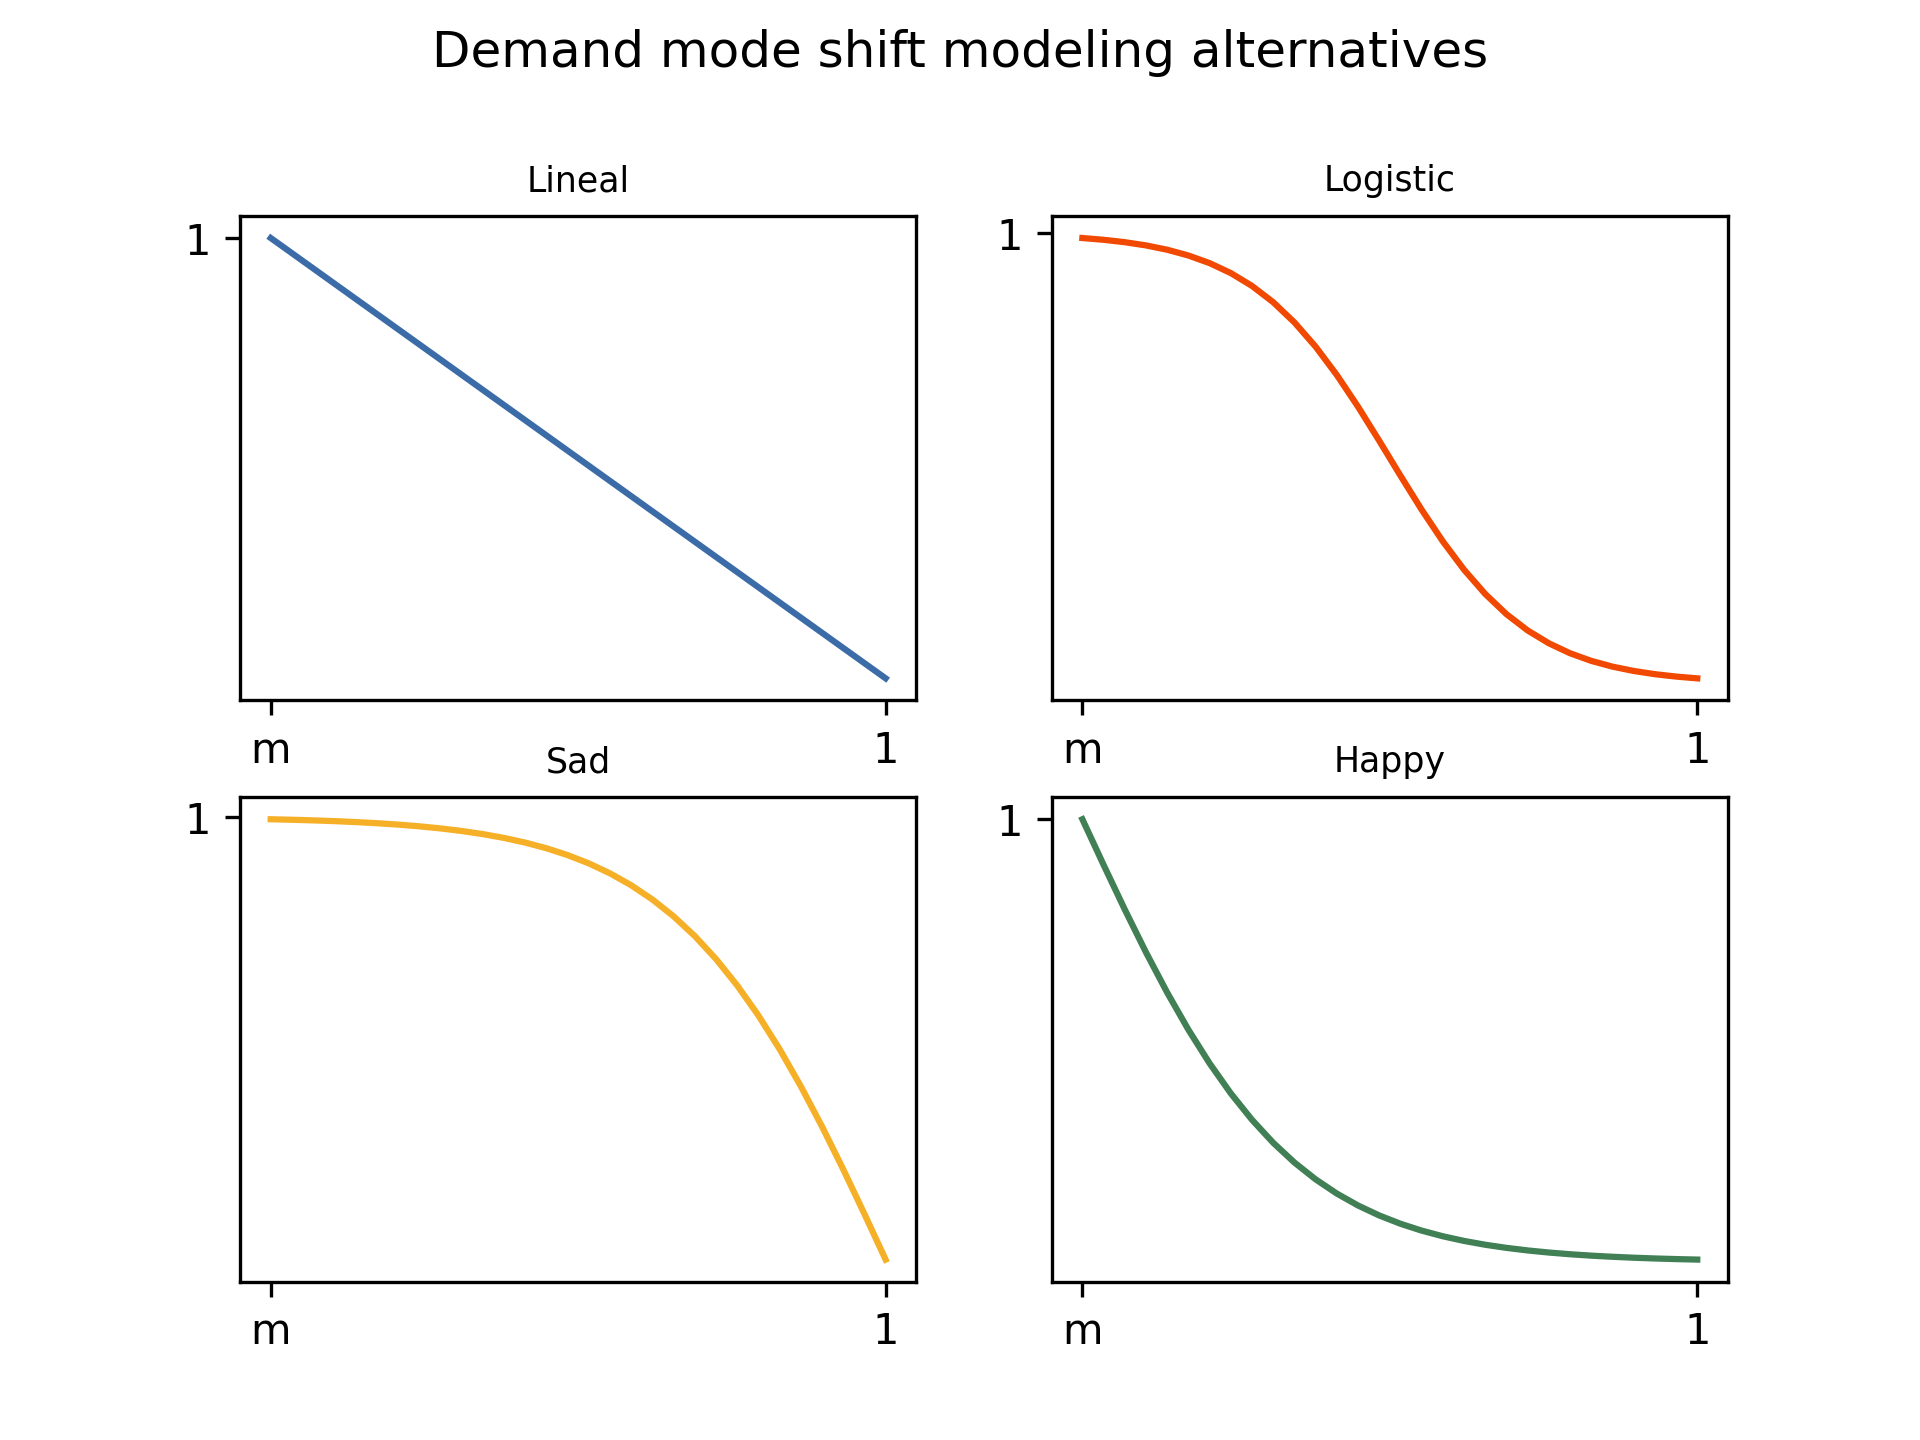
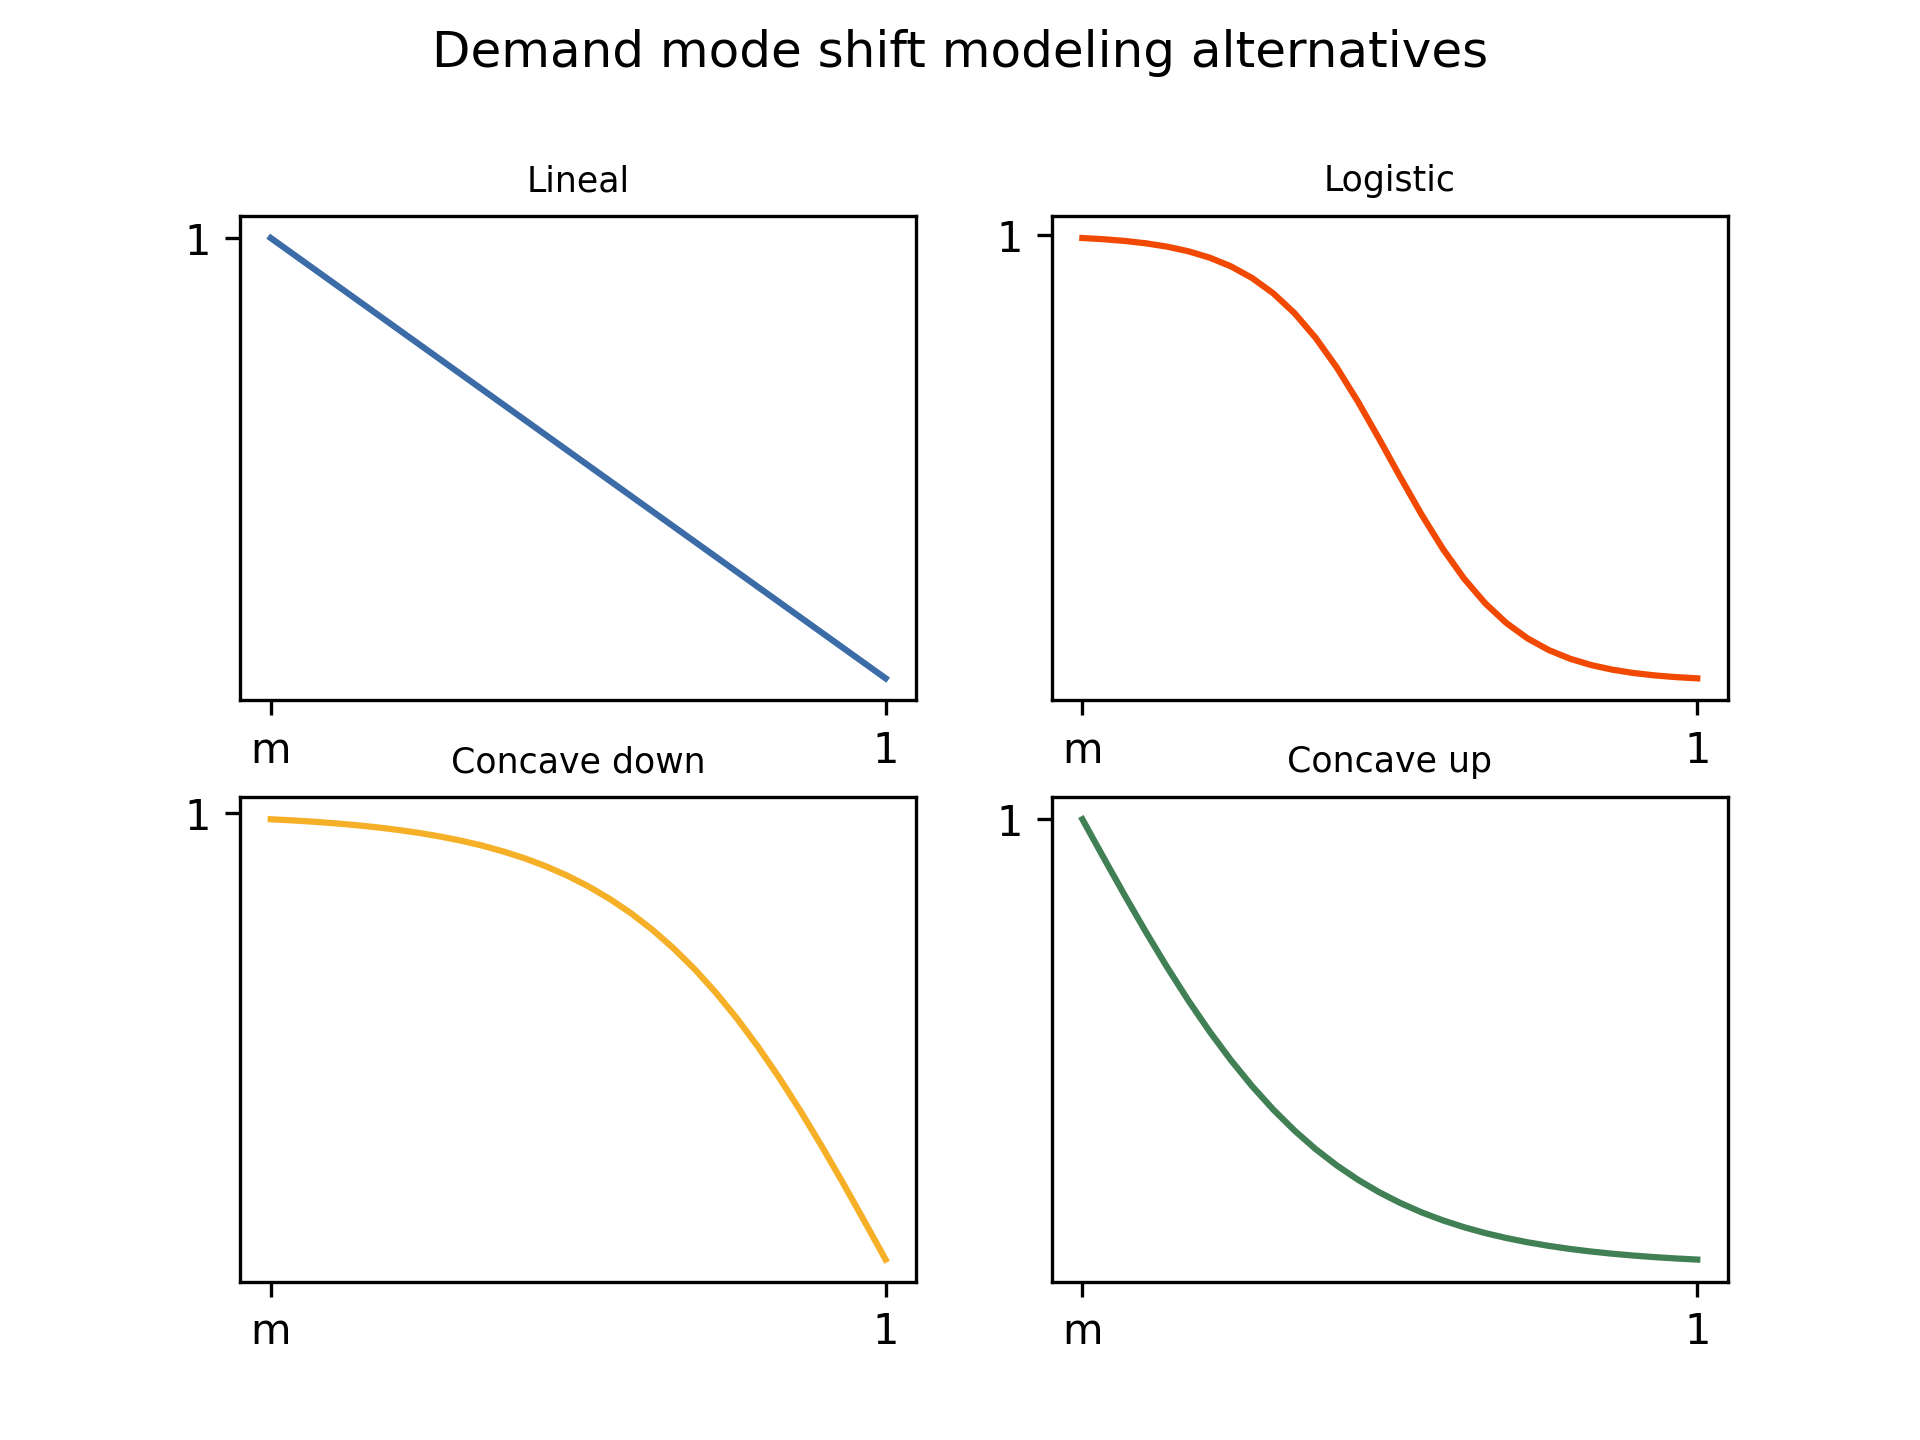
fix breakpoint functions

diff --git a/scripts/functions.py b/scripts/functions.py
@@ -3,6 +3,14 @@ import numpy as np
 DEFAULT_M = 0.4
 
 
+def get_logit_rate(m):
+    """
+    Logit function rate varies with m
+    so that edges are close to 0 and 1
+    """
+    return 5 / (1 - m)
+
+
 def linear(p, m=DEFAULT_M):
     """
     Linear version of f
@@ -10,30 +18,33 @@ def linear(p, m=DEFAULT_M):
     return (p - 1) / (m - 1)
 
 
-def inv_logit(p, m=DEFAULT_M, rate=15):
+def inv_logit(p, m=DEFAULT_M):
     """
     Logit version of f
     """
+    rate = get_logit_rate(m)
     p = p - (1 + m) / 2
-    p *= rate
-
-    return 1 - 1 / (1 + np.exp(-p))
-
-
-def sad(p, m=DEFAULT_M, rate=10):
-    """
-    One part of the logit function
-    """
-    p = p - 1
-    p *= rate
+    p *= rate * 2
 
     return 1 / (1 + np.exp(p))
 
 
-def happy(p, m=DEFAULT_M, rate=10):
+def sad(p, m=DEFAULT_M):
     """
     One part of the logit function
     """
+    rate = get_logit_rate(m)
+    p = p - 1
+    p *= rate
+
+    return 2 / (1 + np.exp(p)) - 1
+
+
+def happy(p, m=DEFAULT_M):
+    """
+    One part of the logit function
+    """
+    rate = get_logit_rate(m)
     p = p - m
     p *= rate
 

diff --git a/scripts/sensitity_analysis.py b/scripts/sensitity_analysis.py
@@ -23,16 +23,19 @@ def build_breakpoinst(func, count, m):
 
     :count: must be at least 2
     """
-    x = np.linspace(m, 1, 1000)
+    x = np.linspace(m, 1, 10000)
     y = func(x)
 
-    interval = 1 / (count - 1)
+    interval = (y.max() - y.min()) / (count - 1)
     breakpoints = []
 
+    print('interval', interval)
+
+    # this should be close to 1, if not 1
     curr_threshold = y.max()
-    for idx, y_val in enumerate(y):
+    for x_val, y_val in zip(x, y):
         if y_val <= curr_threshold:
-            breakpoints.append((y_val, x[idx]))
+            breakpoints.append((y_val, x_val))
             curr_threshold -= interval
 
     if len(breakpoints) < count:

diff --git a/scripts/docresources.py b/scripts/docresources.py
@@ -22,8 +22,8 @@ def draw_f_shapes():
     names = [
         'Lineal',
         'Logistic',
-        'Sad',
-        'Happy',
+        'Concave down',
+        'Concave up',
     ]
     colors = [
         bc.colors.blue,
